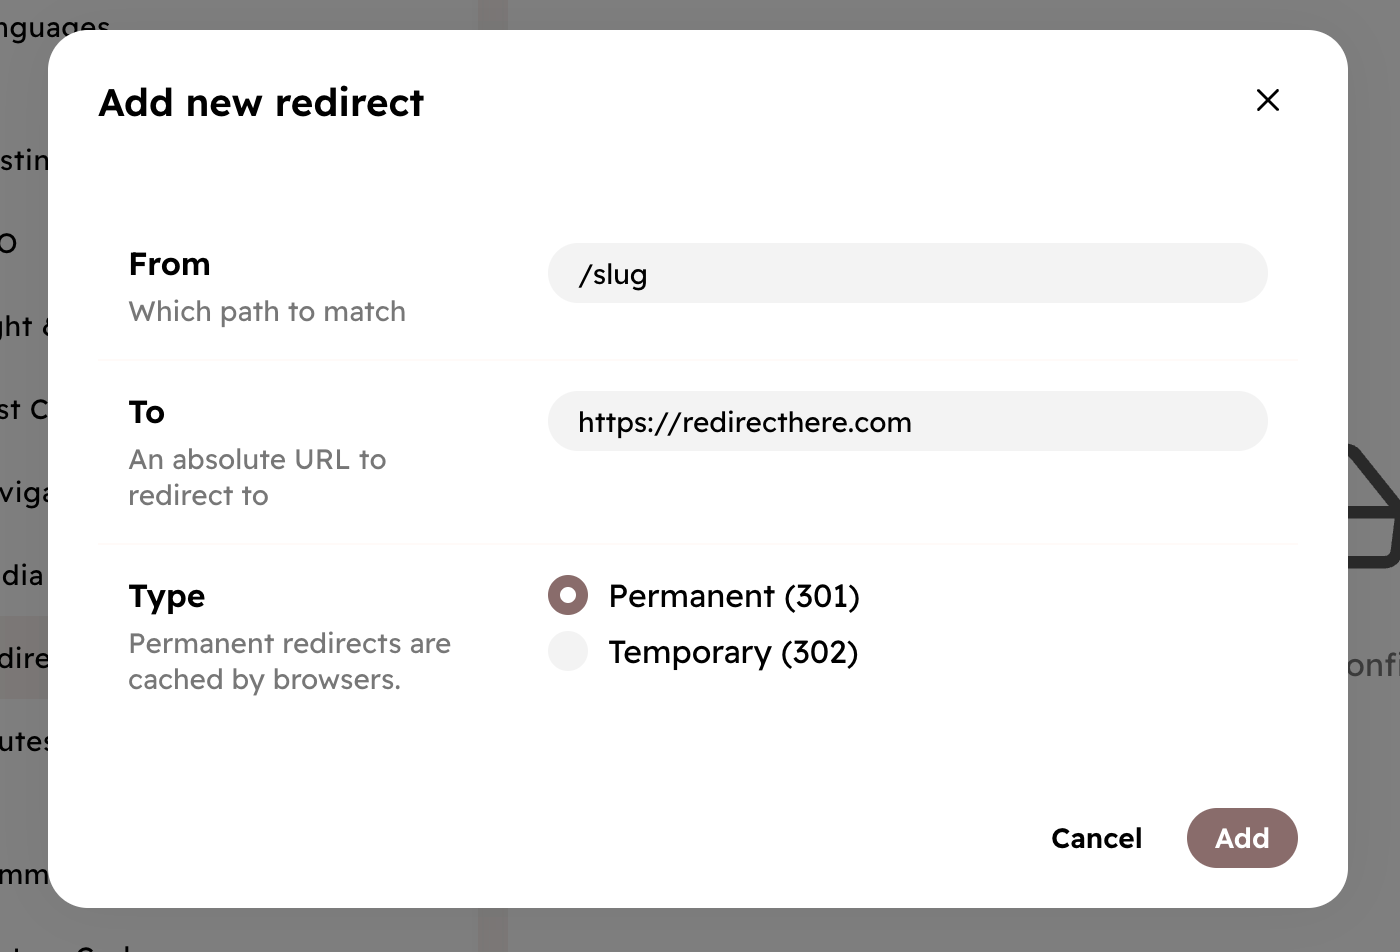
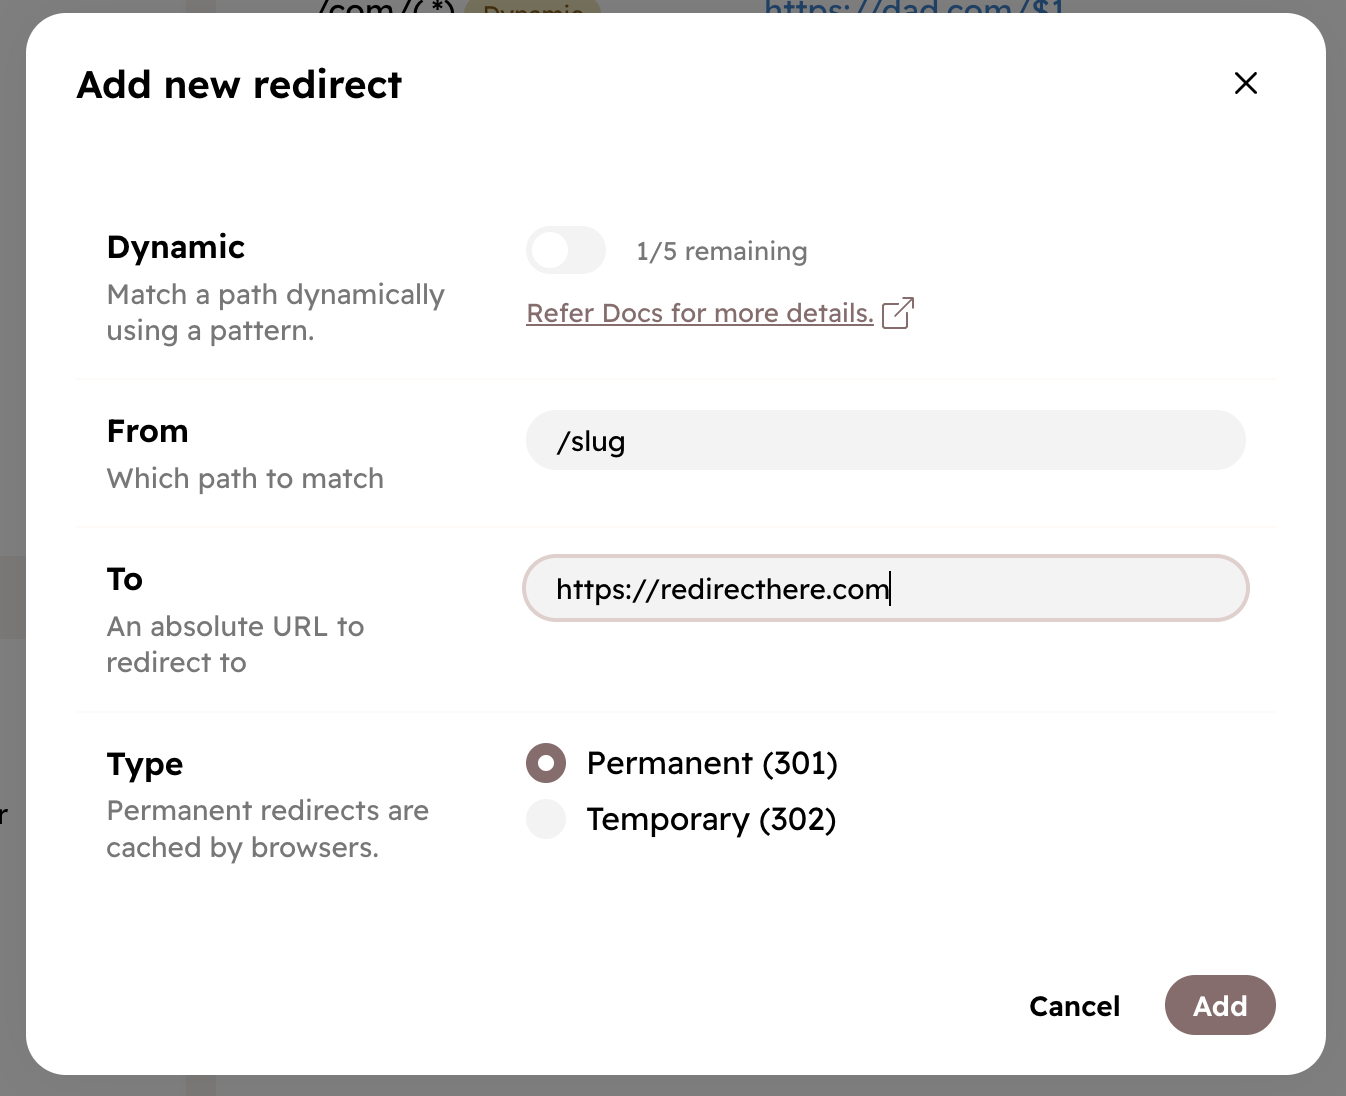
doc wip

diff --git a/frontend/src/routes/(marketing)/docs/[[slug]]/content/redirect/Redirect.svelte b/frontend/src/routes/(marketing)/docs/[[slug]]/content/redirect/Redirect.svelte
@@ -2,6 +2,7 @@
 	import { DocsImage } from "@hyvor/design/marketing";
 
     import createRedirectImg from './create-redirect.png';
+    import example1Img from './example-1.png';
 </script>
 <h1>Redirects</h1>
 
@@ -13,6 +14,9 @@
 
 <ul>
     <li>
+        <strong>Dynamic</strong> - Choose whether you need a simple redirect or a dynamic redirect where you match paths using regular expressions.
+    </li>
+    <li>
         <strong>From</strong> - The path you want to redirect from. For example, <code>/path</code>. Currently, we do not support wildcards or regex in the match.
     </li>
     <li>
@@ -22,3 +26,76 @@
         <strong>Type</strong> - Permanent (HTTP 301) or Temporary (HTTP 302). It determines the <a href="https://developer.mozilla.org/en-US/docs/Web/HTTP/Status#redirection_messages" rel="nofollow" target="_blank">HTTP response code</a>.
     </li>
 </ul>
+
+<h2 id='dynamic'>Dynamic Redirects</h2>
+
+<p>
+    Dynamic redirects allows to identify patterns and re-route requests in a flexible and automated manner. This approach contrasts with static redirects, which require specifying exact source and destination URLs. Dynamic behavior in redirects is primarily achieved through the use of regular expressions (regex), which allow for the matching of URL patterns instead of fixed URLs.
+</p>
+
+<h3 id='how-it-works'>How it works</h3>
+
+<ul>
+    <li>
+        Turn on <strong>Dynamic Redirects</strong>
+    </li>
+    <li>
+        Specify the dynamic <strong>From</strong> slug using regular expressions. Note that we support <code>PCRE2</code> regex syntax. 
+        (You can test your regex patterns using <a href="https://regex101.com/" rel="nofollow" target="_blank">regex101.com</a>.)
+    </li>
+    <li>
+        Specify the <strong>To</strong> slug. You can use the captured groups in the <strong>From</strong> slug in the <strong>To</strong> slug.
+    </li>
+    <li>
+        Save the redirect.
+    </li>
+</ul>
+
+<h3 id='examples'>Examples</h3>
+
+<h4>Example 1</h4>
+
+<DocsImage src={example1Img} alt="Example 1" />
+
+<p>
+    In the above example, the regex <code>/slug/(.*)</code> matches any path that starts with <code>/slug</code> and captures the rest of the path. 
+    The captured path is then used in the redirect destination as <code>https://redirecthere.com/rest-of-the-path</code>, allowing for dynamic redirection based on the original URL.
+
+</p>
+
+<br>
+<br>
+<br>
+<br>
+<br>
+<br>
+<br>
+<br>
+<br>
+<br>
+<br>
+<br>
+<br>
+<br>
+<br>
+<br>
+<br>
+<br>
+<p>
+    For example, you can use the following regex to match all paths that start with <code>/blog</code> and redirect them to <code>/posts</code>:
+</p>
+
+<pre>
+    <code>
+        ^/blog/(.*)$
+    </code>
+</pre>
+
+<p>
+    In the above example, the regex <code>^/blog/(.*)$</code> matches any path that starts with <code>/blog</code> and captures the rest of the path. The captured path is then used in the redirect destination, allowing for dynamic redirection based on the original URL.
+</p>
+
+<p>
+    Regular expressions can be complex and powerful tools for matching patterns in URLs. However, they can also be challenging to write and debug. If you are unfamiliar with regular expressions, we recommend consulting resources such as <a href="https://regex101.com/" rel="nofollow" target="_blank">regex101.com</a> to test and refine your regex patterns.
+</p>
+
